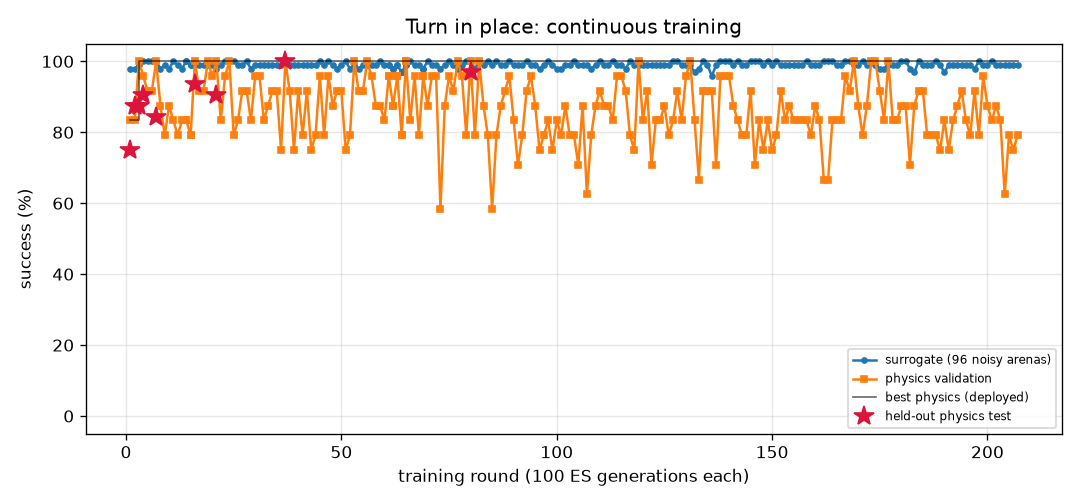
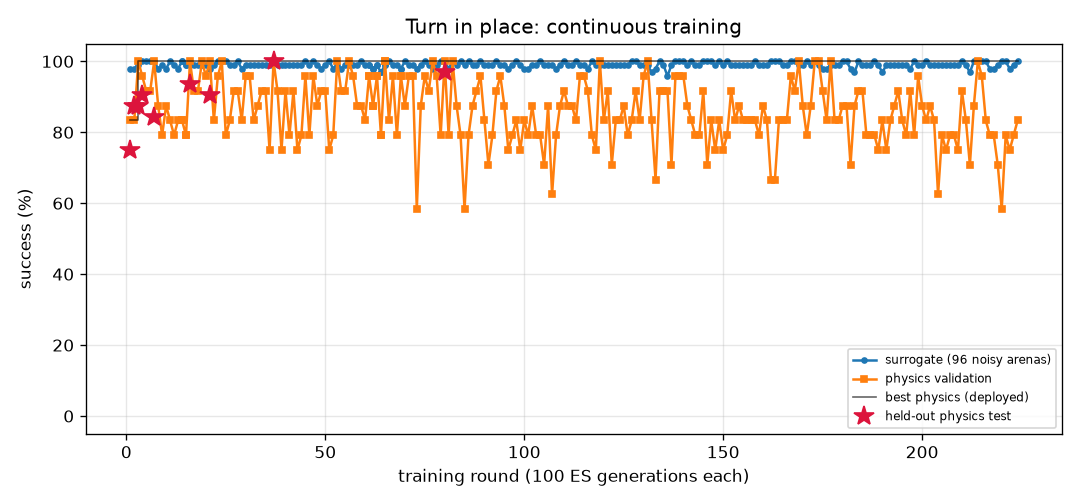
FlyLab: continuous training progress
- walk_forward: optimal, physics val 100% of 24, round 57
- turn: optimal, physics val 100% of 24, round 224
- goto: optimal, physics val 100% of 24, round 56
- odor_seek: optimal, physics val 100% of 24, round 76
- odor_avoid: optimal, physics val 100% of 24, round 333
- light_seek: optimal, physics val 100% of 24, round 235
- light_avoid: optimal, physics val 100% of 24, round 119

diff --git a/projects/09_flylab/training/turn/REPORT.md b/projects/09_flylab/training/turn/REPORT.md
@@ -1,14 +1,14 @@
 # Turn in place (`turn`) — training report
 
-*Auto-generated by `train_brains.py`, last updated 2026-10-07T10:52:06.*
+*Auto-generated by `train_brains.py`, last updated 2026-10-07T20:43:30.*
 
 ![curve](curve.png)
 
 | | |
 |---|---|
-| rounds | 207 |
-| ES generations | 20700 |
-| physics runs | 5214 |
+| rounds | 224 |
+| ES generations | 22400 |
+| physics runs | 5622 |
 | status | **optimal** |
 | best brain | round 80: physics validation **100%** on 24 arenas, surrogate 100% |
 | held-out physics test | **97%** on 32 unseen arenas (95% CI 84%-99%) (errors: [1.6, 3.3, 6.3, 3.7, 1.1, 0.4, 2.4, 2.9, 0.1, 2.6, 0.5, 2.7, 1.5, 3.1, 4.5, 0.2, 0.5, 1.1, 2.0, 4.4, 2.8, 3.2, 0.3, 2.2, 0.5, 3.0, 0.3, 5.4, 0.4, 1.0, 4.7, 10.7]) |
@@ -17,23 +17,6 @@ Physics error per arena: deg from target heading (< 20 = success).
 
 | round | level | gens | sigma | surrogate | physics val | val errors | test | note |
 |---:|---:|---:|---:|---:|---:|---|---:|---|
-| 168 | 3 | 16800 | 0.024 | 100% | 92% | [4.7, 6.4, 1.3, 1.2, 9.8, 1.7, 3.4, 4.5, 3.9, 0.1, 3.0, 0.6, 1.1, 2.2, 3.8, 0.8, 0.9, 1.0, 0.9, 0.9, 5.3, 1.2, 5.4, 2.6] |  | restart from best |
-| 169 | 3 | 16900 | 0.024 | 99% | 100% | [3.8, 8.4, 5.7, 4.0, 0.4, 0.1, 2.7, 1.3, 3.6, 1.6, 3.2, 1.0, 3.4, 2.7, 2.9, 1.9, 1.0, 2.0, 1.3, 2.2, 4.4, 0.5, 4.7, 4.0] |  |  |
-| 170 | 3 | 17000 | 0.025 | 99% | 88% | [6.5, 4.0, 0.5, 2.6, 0.7, 0.6, 6.1, 2.7, 3.6, 1.3, 5.5, 1.4, 1.2, 2.3, 3.6, 2.5, 0.6, 0.4, 3.2, 2.3, 5.4, 2.6, 3.4, 1.7] |  |  |
-| 171 | 3 | 17100 | 0.025 | 100% | 79% | [0.5, 4.7, 9.1, 1.6, 8.2, 1.0, 6.6, 8.6, 8.9, 2.4, 6.5, 4.0, 0.4, 0.0, 6.8, 2.1, 3.8, 3.8, 2.6, 3.0, 0.4, 4.2, 7.9, 8.2] |  |  |
-| 172 | 3 | 17200 | 0.024 | 99% | 88% | [2.3, 3.7, 1.4, 2.8, 3.0, 1.7, 6.4, 7.4, 5.2, 0.8, 5.0, 0.9, 0.9, 0.7, 5.0, 0.1, 1.2, 0.9, 0.1, 0.2, 3.5, 1.8, 6.5, 0.2] |  | restart from best |
-| 173 | 3 | 17300 | 0.024 | 100% | 100% | [1.7, 13.0, 2.4, 1.6, 3.2, 5.1, 6.9, 6.7, 7.3, 3.0, 5.4, 2.5, 1.1, 0.8, 6.1, 3.8, 2.7, 1.7, 10.1, 10.3, 2.7, 1.6, 6.7, 1.6] |  |  |
-| 174 | 3 | 17400 | 0.024 | 99% | 100% | [3.1, 2.3, 4.9, 3.3, 12.7, 6.4, 4.5, 6.8, 5.5, 4.1, 4.1, 1.0, 2.0, 0.1, 4.8, 0.6, 0.7, 2.0, 3.0, 1.3, 2.7, 1.7, 5.7, 2.0] |  |  |
-| 175 | 3 | 17500 | 0.025 | 98% | 92% | [6.8, 6.6, 7.3, 2.4, 1.5, 0.9, 4.0, 0.8, 3.6, 1.0, 3.5, 0.7, 2.7, 4.1, 3.1, 1.2, 0.6, 1.0, 0.9, 1.5, 5.8, 1.3, 2.0, 3.7] |  |  |
-| 176 | 3 | 17600 | 0.025 | 98% | 83% | [13.5, 7.8, 14.1, 3.1, 1.8, 18.5, 10.7, 12.2, 9.4, 4.3, 5.3, 3.6, 1.4, 3.2, 6.1, 8.4, 4.0, 18.7, 17.8, 4.5, 2.2, 5.7, 9.1, 11.2] |  | restart from best |
-| 177 | 3 | 17700 | 0.024 | 99% | 100% | [7.4, 9.4, 3.7, 4.9, 1.6, 4.7, 0.3, 1.5, 0.8, 0.9, 1.7, 2.9, 6.0, 6.2, 1.2, 4.0, 3.0, 1.7, 3.8, 0.5, 6.8, 2.1, 1.8, 0.8] |  |  |
-| 178 | 3 | 17800 | 0.025 | 99% | 83% | [8.2, 10.5, 9.4, 5.2, 11.9, 3.8, 3.7, 2.6, 2.5, 2.2, 4.1, 3.1, 3.3, 3.5, 1.7, 2.4, 2.9, 0.7, 1.7, 0.8, 8.6, 1.8, 2.8, 4.7] |  |  |
-| 179 | 3 | 17900 | 0.025 | 99% | 83% | [8.7, 11.7, 10.6, 4.1, 2.6, 5.3, 3.2, 0.9, 4.5, 2.6, 1.1, 2.6, 2.0, 4.4, 2.0, 4.5, 2.7, 1.3, 3.9, 2.6, 9.6, 0.1, 1.8, 1.3] |  |  |
-| 180 | 3 | 18000 | 0.025 | 100% | 88% | [0.6, 7.0, 11.9, 2.4, 1.6, 0.9, 5.8, 6.4, 3.6, 0.6, 4.2, 0.3, 2.5, 1.6, 1.5, 0.1, 0.0, 1.3, 1.8, 0.2, 5.1, 1.6, 5.3, 1.1] |  | restart from best |
-| 181 | 3 | 18100 | 0.024 | 100% | 88% | [0.5, 3.9, 2.8, 2.0, 1.0, 3.1, 7.5, 4.7, 5.0, 0.1, 2.3, 1.4, 1.4, 0.9, 4.1, 1.2, 1.5, 3.8, 0.6, 0.1, 4.2, 1.8, 6.3, 2.1] |  |  |
-| 182 | 3 | 18200 | 0.024 | 98% | 71% | [8.3, 13.5, 8.4, 2.7, 5.6, 0.4, 2.4, 4.1, 2.5, 0.2, 1.4, 5.3, 2.0, 5.1, 3.2, 3.6, 5.3, 1.7, 2.9, 3.1, 6.1, 3.0, 1.9, 0.9] |  |  |
-| 183 | 3 | 18300 | 0.025 | 97% | 88% | [10.8, 13.5, 7.3, 1.6, 6.9, 3.5, 1.4, 10.9, 1.5, 2.7, 0.8, 6.3, 2.4, 4.1, 0.2, 2.9, 6.1, 2.4, 3.2, 1.2, 8.3, 4.2, 1.6, 11.3] |  |  |
-| 184 | 3 | 18400 | 0.026 | 100% | 92% | [6.3, 9.6, 7.2, 1.9, 3.3, 0.2, 2.5, 0.1, 1.0, 1.4, 1.8, 0.8, 1.3, 3.5, 1.9, 1.9, 0.6, 2.4, 2.0, 2.0, 2.9, 0.8, 1.9, 2.6] |  | restart from best |
 | 185 | 3 | 18500 | 0.024 | 99% | 92% | [3.7, 3.1, 2.6, 1.3, 0.6, 0.7, 7.8, 7.4, 7.0, 0.2, 4.3, 1.7, 0.8, 1.6, 4.3, 2.7, 2.0, 1.3, 2.1, 2.4, 2.9, 2.4, 6.2, 3.2] |  |  |
 | 186 | 3 | 18600 | 0.025 | 99% | 79% | [1.9, 1.8, 0.8, 0.3, 4.3, 120.5, 6.0, 8.4, 6.8, 14.6, 5.9, 1.7, 0.9, 1.4, 5.1, 3.0, 2.3, 2.7, 3.1, 2.5, 1.5, 2.0, 7.7, 4.3] |  |  |
 | 187 | 3 | 18700 | 0.025 | 99% | 79% | [7.0, 4.5, 2.7, 0.2, 5.6, 0.1, 5.7, 9.1, 5.6, 0.3, 5.5, 1.0, 0.7, 2.6, 6.3, 3.1, 1.3, 1.1, 2.4, 2.6, 6.4, 1.7, 4.2, 6.3] |  |  |
@@ -57,3 +40,20 @@ Physics error per arena: deg from target heading (< 20 = success).
 | 205 | 3 | 20500 | 0.024 | 99% | 79% | [0.4, 3.0, 1.0, 1.4, 3.4, 5.6, 6.7, 7.8, 5.1, 1.2, 4.9, 0.7, 0.9, 3.0, 3.7, 1.8, 1.1, 1.3, 2.6, 0.2, 5.7, 0.5, 4.3, 1.3] |  |  |
 | 206 | 3 | 20600 | 0.025 | 99% | 75% | [8.1, 2.9, 1.9, 0.6, 4.2, 7.4, 5.9, 7.8, 5.8, 13.9, 4.7, 1.1, 0.7, 1.3, 5.0, 2.9, 0.1, 2.7, 2.9, 0.8, 4.6, 1.1, 4.6, 6.9] |  |  |
 | 207 | 3 | 20700 | 0.025 | 99% | 79% | [7.2, 8.9, 9.0, 3.3, 7.0, 3.1, 5.9, 0.1, 3.1, 0.2, 3.7, 2.1, 1.2, 4.5, 3.6, 0.4, 2.4, 0.4, 0.8, 2.2, 4.1, 2.3, 2.8, 3.2] |  |  |
+| 208 | 3 | 20800 | 0.025 | 99% | 79% | [5.2, 5.4, 3.9, 2.4, 3.1, 2.3, 4.8, 0.4, 6.0, 0.2, 4.3, 0.1, 1.3, 3.5, 3.6, 0.3, 0.1, 0.5, 0.1, 0.1, 7.5, 1.4, 6.0, 1.3] |  | restart from best |
+| 209 | 3 | 20900 | 0.024 | 99% | 75% | [7.0, 4.4, 1.1, 3.2, 3.9, 0.5, 3.9, 4.6, 3.5, 1.4, 5.1, 0.6, 0.1, 1.5, 3.7, 0.0, 0.1, 1.3, 0.1, 0.7, 3.6, 1.5, 5.8, 3.5] |  |  |
+| 210 | 3 | 21000 | 0.025 | 100% | 92% | [2.6, 4.0, 2.0, 1.4, 1.7, 0.1, 4.3, 1.1, 7.1, 0.6, 2.0, 0.7, 0.9, 2.3, 1.7, 0.3, 0.9, 1.4, 12.0, 0.7, 3.4, 1.4, 7.4, 6.6] |  |  |
+| 211 | 3 | 21100 | 0.024 | 99% | 83% | [7.6, 9.5, 3.7, 3.5, 5.1, 1.4, 2.9, 0.2, 3.3, 0.3, 3.5, 1.1, 1.8, 3.0, 3.5, 1.4, 1.3, 1.2, 0.8, 1.1, 3.3, 1.0, 2.7, 1.8] |  |  |
+| 212 | 3 | 21200 | 0.025 | 97% | 71% | [9.5, 9.2, 0.3, 2.0, 7.3, 0.2, 4.5, 2.0, 4.5, 0.1, 4.1, 2.1, 1.6, 0.3, 4.8, 0.5, 1.9, 1.2, 0.5, 0.5, 4.4, 0.8, 4.6, 1.9] |  | restart from best |
+| 213 | 3 | 21300 | 0.024 | 100% | 88% | [5.9, 6.3, 1.5, 1.1, 3.0, 1.3, 4.8, 1.7, 3.6, 0.6, 3.2, 1.8, 0.6, 3.4, 3.7, 0.6, 2.0, 0.2, 11.3, 0.1, 6.3, 0.1, 3.3, 5.7] |  |  |
+| 214 | 3 | 21400 | 0.024 | 100% | 100% | [0.4, 2.5, 5.8, 0.2, 4.1, 1.8, 3.2, 7.8, 3.3, 1.7, 4.4, 0.8, 1.0, 0.9, 4.6, 3.5, 0.5, 2.3, 1.8, 3.2, 2.3, 1.4, 5.6, 4.5] |  |  |
+| 215 | 3 | 21500 | 0.024 | 100% | 96% | [1.4, 5.8, 4.5, 2.8, 0.4, 2.9, 3.6, 1.1, 4.7, 0.1, 2.4, 0.2, 3.5, 1.1, 2.2, 1.3, 0.5, 1.0, 9.0, 0.5, 6.6, 0.9, 4.0, 0.3] |  |  |
+| 216 | 3 | 21600 | 0.024 | 100% | 83% | [4.2, 0.2, 2.3, 1.0, 1.8, 1.3, 6.9, 7.1, 6.9, 13.7, 4.6, 1.7, 1.2, 1.5, 4.6, 3.7, 2.5, 2.2, 11.0, 4.6, 3.0, 1.6, 6.7, 7.7] |  | restart from best |
+| 217 | 3 | 21700 | 0.024 | 98% | 79% | [11.5, 10.5, 3.3, 3.1, 6.0, 3.5, 3.4, 6.5, 3.3, 2.0, 2.2, 3.3, 2.0, 1.0, 2.7, 2.1, 3.3, 0.9, 1.7, 2.0, 6.5, 2.0, 2.8, 8.5] |  |  |
+| 218 | 3 | 21800 | 0.025 | 98% | 79% | [6.0, 1.4, 4.1, 1.1, 5.1, 3.7, 4.7, 2.7, 4.9, 14.3, 5.0, 0.6, 0.1, 0.3, 4.5, 1.1, 1.4, 2.3, 0.8, 1.3, 4.5, 2.1, 5.3, 4.4] |  |  |
+| 219 | 3 | 21900 | 0.025 | 99% | 71% | [3.4, 6.7, 5.0, 3.8, 2.5, 1.6, 4.4, 3.3, 4.0, 0.1, 4.4, 0.3, 1.3, 0.5, 3.4, 0.5, 0.5, 0.8, 0.6, 0.6, 4.0, 1.0, 4.3, 4.1] |  |  |
+| 220 | 3 | 22000 | 0.025 | 100% | 58% | [8.7, 8.5, 0.5, 0.8, 0.4, 1.7, 4.7, 5.6, 3.5, 0.6, 3.1, 2.5, 2.1, 3.5, 3.3, 2.3, 2.2, 0.5, 2.3, 2.3, 8.6, 1.4, 3.5, 1.8] |  | restart from best |
+| 221 | 3 | 22100 | 0.024 | 100% | 79% | [2.2, 8.2, 0.9, 3.1, 5.8, 1.9, 4.1, 5.9, 2.6, 1.0, 2.7, 1.7, 2.6, 4.6, 2.6, 1.3, 1.2, 0.4, 3.1, 0.1, 4.2, 0.5, 5.1, 3.9] |  |  |
+| 222 | 3 | 22200 | 0.024 | 98% | 75% | [3.1, 3.5, 8.4, 1.2, 3.0, 0.3, 7.3, 9.5, 8.1, 2.1, 6.8, 3.2, 2.1, 0.1, 4.3, 2.2, 3.8, 3.5, 2.6, 5.8, 1.2, 3.7, 7.8, 6.5] |  |  |
+| 223 | 3 | 22300 | 0.025 | 99% | 79% | [1.3, 0.1, 4.3, 1.7, 0.3, 2.0, 5.2, 7.5, 6.3, 0.5, 6.4, 1.8, 0.6, 1.2, 5.4, 2.2, 1.3, 2.4, 1.3, 3.1, 5.5, 2.2, 6.8, 8.2] |  |  |
+| 224 | 3 | 22400 | 0.025 | 100% | 83% | [3.1, 3.1, 4.6, 0.6, 2.0, 1.3, 7.1, 6.0, 5.6, 1.2, 4.0, 0.7, 1.8, 1.6, 4.2, 2.8, 0.4, 0.8, 2.9, 3.8, 4.5, 1.3, 6.2, 3.5] |  | restart from best |

diff --git a/projects/09_flylab/training/odor_avoid/REPORT.md b/projects/09_flylab/training/odor_avoid/REPORT.md
@@ -1,14 +1,14 @@
 # Escape a bad smell (`odor_avoid`) — training report
 
-*Auto-generated by `train_brains.py`, last updated 2026-10-07T00:08:30.*
+*Auto-generated by `train_brains.py`, last updated 2026-10-07T20:43:01.*
 
 ![curve](curve.png)
 
 | | |
 |---|---|
-| rounds | 321 |
-| ES generations | 32100 |
-| physics runs | 4914 |
+| rounds | 333 |
+| ES generations | 33300 |
+| physics runs | 5202 |
 | status | **optimal** |
 | best brain | round 288: physics validation **100%** on 24 arenas, surrogate 98% |
 | held-out physics test | **100%** on 32 unseen arenas (95% CI 89%-100%) (errors: [61.2, 57.1, 61.4, 61.0, 13.5, 61.1, 61.1, 60.7, 60.0, 56.9, 60.8, 56.8, 60.8, 60.0, 58.7, 59.7, 60.7, 54.4, 60.9, 54.7, 61.1, 60.5, 57.7, 58.7, 59.8, 55.9, 55.7, 45.8, 55.9, 58.2, 59.2, 28.5]) |
@@ -17,18 +17,6 @@ Physics error per arena: mm gained away from source (> 6 without first approachi
 
 | round | level | gens | sigma | surrogate | physics val | val errors | test | note |
 |---:|---:|---:|---:|---:|---:|---|---:|---|
-| 282 | 3 | 28200 | 0.028 | 94% | 92% | [59.1, 55.2, 50.2, 55.9, 58.1, 56.3, 57.4, 58.3, 57.3, 57.7, 27.8, 56.2, 27.8, 43.9, 37.8, 57.1, 55.4, 55.1, 42.8, 55.3, 31.7, 57.8, 55.6, 57.4] |  |  |
-| 283 | 3 | 28300 | 0.028 | 95% | 96% | [59.3, 56.2, 52.2, 56.8, 59.4, 58.0, 59.2, 55.0, 59.1, 43.3, 58.4, 59.6, 49.4, 53.4, 39.5, 59.4, 59.4, 58.3, 52.2, 55.6, 59.7, 43.4, 57.2, 35.5] |  |  |
-| 284 | 3 | 28400 | 0.027 | 95% | 100% | [58.3, 52.1, 54.8, 55.8, 60.1, 59.3, 58.7, 37.5, 58.8, 56.9, 59.0, 59.3, 49.4, 54.1, 49.9, 59.8, 59.7, 59.4, 52.7, 52.0, 59.6, 46.7, 56.5, 45.1] |  | restart from best |
-| 285 | 3 | 28500 | 0.026 | 96% | 92% | [57.1, 53.9, 52.7, 54.8, 56.8, 54.5, 57.2, 4.0, 56.3, 37.0, 55.4, 57.3, 48.1, 51.0, 31.7, 57.1, 57.3, 54.5, 50.4, 50.2, 57.2, 23.0, 55.1, 14.5] |  |  |
-| 286 | 3 | 28600 | 0.026 | 95% | 96% | [58.9, 58.3, 55.0, 57.7, 59.9, 60.0, 59.6, 52.2, 59.5, 59.3, 59.2, 59.5, 51.0, 54.1, 39.8, 59.6, 59.8, 58.6, 52.5, 57.5, 60.1, 59.4, 57.1, 42.6] |  |  |
-| 287 | 3 | 28700 | 0.027 | 97% | 96% | [61.9, 55.9, 56.6, 56.7, 60.0, 60.1, 60.3, 57.1, 58.8, 59.3, 60.7, 59.8, 54.3, 56.4, 41.6, 60.9, 60.1, 60.2, 54.0, 53.5, 60.4, 59.2, 56.2, 58.6] |  |  |
-| 288 | 3 | 28800 | 0.026 | 98% | 100% | [61.9, 59.0, 55.6, 58.9, 61.2, 60.8, 59.8, 15.9, 59.7, 35.8, 52.4, 61.3, 50.8, 53.6, 12.5, 57.0, 61.4, 52.0, 54.4, 58.3, 61.0, 38.7, 59.1, 57.0] | 100% | new best |
-| 289 | 3 | 28900 | 0.025 | 95% | 96% | [61.8, 58.8, 56.8, 59.2, 61.2, 61.4, 60.4, 25.7, 61.0, 58.6, 61.4, 60.4, 54.3, 56.7, 41.0, 60.7, 61.2, 59.8, 54.3, 55.2, 61.1, 60.8, 58.7, 58.7] |  |  |
-| 290 | 3 | 29000 | 0.027 | 97% | 96% | [60.5, 56.8, 57.0, 57.3, 60.1, 59.2, 60.4, 50.9, 60.9, 42.3, 59.9, 60.0, 52.9, 54.8, 39.7, 60.1, 60.4, 59.6, 53.6, 57.1, 59.7, 51.1, 58.4, 50.6] |  |  |
-| 291 | 3 | 29100 | 0.026 | 94% | 96% | [59.4, 57.5, 56.1, 57.5, 59.5, 60.6, 60.0, 50.3, 60.0, 59.5, 58.2, 59.7, 52.7, 54.1, 34.1, 59.4, 59.5, 60.1, 53.5, 56.4, 59.7, 56.1, 57.8, 47.1] |  |  |
-| 292 | 3 | 29200 | 0.028 | 94% | 96% | [57.3, 54.4, 52.4, 54.2, 52.4, 51.6, 57.4, 29.6, 56.7, 45.3, 37.6, 57.0, 48.8, 50.8, 35.2, 50.9, 57.1, 50.8, 50.2, 54.4, 57.1, 54.7, 54.3, 54.9] |  | restart from best |
-| 293 | 3 | 29300 | 0.025 | 92% | 96% | [62.1, 56.6, 57.1, 60.7, 60.6, 59.8, 61.0, 49.1, 59.8, 40.1, 58.1, 60.6, 52.8, 55.1, 32.4, 61.6, 61.2, 60.1, 54.5, 56.2, 60.7, 56.7, 58.4, 61.2] |  |  |
 | 294 | 3 | 29400 | 0.029 | 95% | 96% | [61.4, 60.4, 57.6, 59.5, 60.5, 61.3, 61.7, 58.8, 61.7, 61.0, 59.1, 60.9, 52.1, 54.9, 39.7, 61.0, 61.2, 61.2, 54.0, 59.4, 60.7, 61.8, 60.4, 61.2] |  |  |
 | 295 | 3 | 29500 | 0.027 | 95% | 100% | [62.0, 60.2, 56.3, 59.3, 55.5, 59.1, 62.0, 57.4, 61.6, 42.9, 12.2, 61.1, 52.3, 55.5, 46.3, 60.4, 61.0, 48.1, 51.6, 59.9, 60.7, 45.5, 57.0, 60.3] |  |  |
 | 296 | 3 | 29600 | 0.027 | 98% | 92% | [60.7, 59.0, 56.9, 58.8, 61.5, 60.5, 60.9, 41.2, 61.1, 31.8, 61.0, 60.7, 50.2, 57.3, 44.6, 60.5, 60.8, 58.8, 54.1, 58.9, 60.6, 60.8, 58.9, 41.0] |  | restart from best |
@@ -57,3 +45,15 @@ Physics error per arena: mm gained away from source (> 6 without first approachi
 | 319 | 3 | 31900 | 0.028 | 96% | 96% | [61.8, 59.4, 58.3, 58.7, 61.5, 62.0, 60.4, 58.6, 61.7, 60.6, 60.7, 60.0, 53.8, 56.6, 38.6, 61.8, 60.9, 61.7, 54.2, 56.1, 60.6, 61.3, 59.2, 61.7] |  | restart from best |
 | 320 | 3 | 32000 | 0.025 | 93% | 100% | [60.7, 59.0, 55.6, 56.8, 61.1, 57.6, 59.6, 8.3, 60.0, 58.6, 60.7, 61.0, 54.3, 55.4, 42.5, 60.4, 60.8, 59.6, 54.5, 54.4, 61.0, 35.5, 57.6, 30.8] |  |  |
 | 321 | 3 | 32100 | 0.028 | 95% | 96% | [60.5, 57.6, 54.1, 57.6, 59.6, 59.8, 58.8, 24.9, 60.1, 36.7, 57.6, 58.6, 50.2, 53.5, 34.6, 55.5, 58.8, 57.2, 48.2, 55.5, 58.2, 49.1, 57.9, 50.2] |  |  |
+| 322 | 3 | 32200 | 0.027 | 95% | 100% | [58.6, 54.4, 53.6, 58.5, 58.4, 58.0, 59.6, 57.2, 59.5, 58.4, 52.7, 58.5, 46.4, 51.6, 8.6, 58.7, 58.8, 57.3, 49.9, 57.3, 58.8, 57.0, 57.1, 58.3] |  |  |
+| 323 | 3 | 32300 | 0.027 | 93% | 96% | [58.9, 54.5, 53.5, 57.9, 55.3, 50.0, 59.8, 39.3, 60.0, 38.8, 3.3, 59.0, 49.4, 53.1, 28.3, 52.6, 58.5, 43.0, 50.1, 53.5, 59.1, 55.7, 57.3, 57.8] |  | restart from best |
+| 324 | 3 | 32400 | 0.025 | 95% | 96% | [60.3, 59.6, 55.6, 56.8, 54.6, 57.8, 60.5, 19.8, 61.5, 43.3, 8.9, 60.8, 51.8, 54.1, 19.0, 61.0, 61.1, 58.6, 52.5, 59.3, 61.1, 59.5, 59.7, 60.8] |  |  |
+| 325 | 3 | 32500 | 0.027 | 95% | 100% | [62.4, 56.9, 56.3, 59.6, 61.5, 61.9, 60.4, 60.8, 61.3, 61.5, 60.7, 61.3, 46.6, 56.9, 45.8, 61.7, 61.5, 61.9, 54.5, 59.5, 61.1, 61.7, 59.5, 61.9] |  |  |
+| 326 | 3 | 32600 | 0.027 | 96% | 96% | [63.0, 60.6, 57.5, 59.8, 61.5, 62.5, 60.7, 61.7, 61.5, 61.4, 61.0, 61.4, 53.4, 58.1, 43.0, 61.8, 61.7, 62.3, 54.7, 59.5, 61.5, 62.0, 59.6, 62.5] |  |  |
+| 327 | 3 | 32700 | 0.026 | 97% | 96% | [61.6, 55.4, 58.0, 58.7, 61.0, 62.5, 60.1, 60.1, 61.7, 61.6, 59.4, 60.0, 51.2, 56.6, 39.1, 61.5, 59.1, 61.6, 52.4, 55.6, 59.8, 61.9, 59.4, 61.7] |  | restart from best |
+| 328 | 3 | 32800 | 0.025 | 96% | 96% | [63.2, 61.2, 56.5, 59.1, 61.3, 62.5, 61.0, 56.4, 60.5, 62.1, 62.0, 61.8, 52.9, 56.5, 40.3, 61.8, 61.9, 62.2, 54.9, 61.0, 61.6, 61.3, 58.1, 61.6] |  |  |
+| 329 | 3 | 32900 | 0.026 | 94% | 100% | [63.1, 60.6, 54.1, 58.0, 59.1, 60.5, 62.0, 44.4, 60.2, 50.1, 48.9, 62.0, 47.9, 53.6, 35.2, 61.7, 61.5, 61.7, 51.0, 57.6, 61.4, 60.8, 55.8, 61.1] |  |  |
+| 330 | 3 | 33000 | 0.028 | 94% | 96% | [62.9, 57.5, 57.0, 57.9, 61.5, 61.3, 61.7, 56.4, 59.9, 39.4, 61.2, 60.8, 53.0, 55.9, 34.6, 58.0, 61.3, 60.5, 54.5, 57.2, 61.1, 58.9, 57.2, 54.0] |  |  |
+| 331 | 3 | 33100 | 0.028 | 96% | 96% | [62.5, 56.7, 53.9, 56.8, 57.8, 52.8, 60.9, 58.1, 59.0, 36.9, 45.5, 59.1, 45.8, 53.9, 23.5, 54.7, 60.0, 45.1, 51.4, 56.3, 59.3, 58.4, 55.2, 61.0] |  | restart from best |
+| 332 | 3 | 33200 | 0.025 | 97% | 96% | [60.1, 59.4, 56.0, 58.7, 60.7, 49.9, 61.0, 3.4, 59.3, 13.0, 59.7, 61.3, 54.3, 55.6, 47.6, 60.7, 61.1, 27.0, 54.5, 59.0, 61.0, 21.8, 58.6, 12.0] |  |  |
+| 333 | 3 | 33300 | 0.026 | 98% | 96% | [59.1, 56.3, 55.3, 52.1, 35.5, 45.6, 57.3, 23.9, 57.7, 23.3, 3.5, 59.2, 48.0, 54.0, 28.8, 39.1, 59.3, 42.1, 48.9, 55.9, 59.1, 31.9, 56.1, 55.5] |  |  |

diff --git a/projects/09_flylab/training/TRAINING.md b/projects/09_flylab/training/TRAINING.md
@@ -1,15 +1,15 @@
 # FlyLab brains — continuous training log
 
-*Auto-generated by `train_brains.py`, last updated 2026-10-07T10:52:47.*
+*Auto-generated by `train_brains.py`, last updated 2026-10-07T20:43:30.*
 
 Every skill has its own brain and its own training process: surrogate ES rounds, physics validation in MuJoCo, keep-the-best selection, and a held-out physics test that is never used for selection. See each skill's report for its full round-by-round history. Mastery is progressive: passing a level (100% physics validation, >=95% surrogate) doubles the validation and test arena sets; a brain is **optimal** once it holds up at level 3 (>=95% of 24 validation arenas) AND scores >=90% on the 32 held-out test arenas. Test columns show 95% Wilson confidence intervals.
 
 | skill | rounds | ES generations | physics runs | surrogate | physics val | **physics test** | status |
 |---|---:|---:|---:|---:|---:|---:|---|
 | [Walk forward](walk_forward/REPORT.md) | 57 | 5700 | 1286 | 100% | 100% of 24 | 100% of 32 (CI 89-100%) | **optimal** |
-| [Turn in place](turn/REPORT.md) | 207 | 20700 | 5214 | 100% | 100% of 24 | 97% of 32 (CI 84-99%) | **optimal** |
+| [Turn in place](turn/REPORT.md) | 224 | 22400 | 5622 | 100% | 100% of 24 | 97% of 32 (CI 84-99%) | **optimal** |
 | [Go to a location](goto/REPORT.md) | 56 | 5600 | 1134 | 100% | 100% of 24 | 100% of 32 (CI 89-100%) | **optimal** |
 | [Find food by smell](odor_seek/REPORT.md) | 76 | 7600 | 1094 | 100% | 100% of 24 | 100% of 32 (CI 89-100%) | **optimal** |
-| [Escape a bad smell](odor_avoid/REPORT.md) | 321 | 32100 | 4914 | 98% | 100% of 24 | 100% of 32 (CI 89-100%) | **optimal** |
+| [Escape a bad smell](odor_avoid/REPORT.md) | 333 | 33300 | 5202 | 98% | 100% of 24 | 100% of 32 (CI 89-100%) | **optimal** |
 | [Walk toward light](light_seek/REPORT.md) | 235 | 23500 | 2392 | 100% | 100% of 24 | 100% of 32 (CI 89-100%) | **optimal** |
 | [Hide from light](light_avoid/REPORT.md) | 119 | 11900 | 3096 | 100% | 100% of 24 | 100% of 32 (CI 89-100%) | **optimal** |
